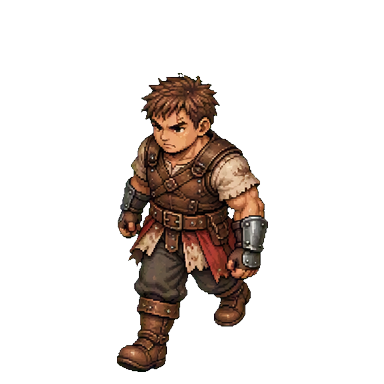
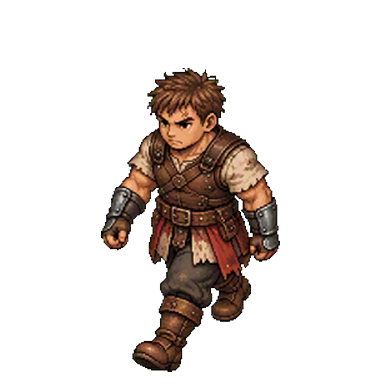
v97.89 Bram เดิน SW 12 เฟรม (จำนวนเฟรมเดินแยกตามทิศ)
Claude-Session: https://claude.ai/code/session_019t7yat9ZpwB9vYQUzd7rSJ

Changed region(s): [[0.25, 0.1562, 0.75, 0.9688]]

diff --git a/village-town.html b/village-town.html
@@ -439,7 +439,7 @@ document.querySelectorAll('[data-game]').forEach(b=>b.onclick=()=>sendGame('menu
 
 document.addEventListener('pointerdown',()=>sendGame('input'),{capture:true});document.addEventListener('keydown',()=>sendGame('input'),{capture:true});
 rebuildRoads();heroRestore();renderList();fit();new ResizeObserver(fit).observe(stage);parent.postMessage({source:'project-a-town',type:'ready'},'*');document.fonts.ready.then(()=>terrainDirty=true);requestAnimationFrame(draw);const roadEdgeButton=$('roadEdgeStyle');if(roadEdgeButton){roadEdgeButton.onclick=()=>setRoadEdgeStyle(ROAD_EDGE_STYLE==='classic'?'texture':'classic');roadEdgeButton.textContent='ขอบถนน: '+(ROAD_EDGE_STYLE==='texture'?'ลายหินใหม่':'แบบเดิม');}
-</script><script src="js/village-layout-v67.js?v=82.14"></script><script src="js/village-grid.js?v=3"></script><script src="js/village-footprint.js?v=91.70"></script><script src="js/village-fence.js?v=1"></script><script src="js/town-ux.js?v=97.46"></script><script src="js/town-menu.js?v=72"></script><script src="js/village-biomes.js?v=72"></script><script src="js/village-forest.js?v=97.47"></script><script src="js/nature-alpha-masks.js"></script><script src="js/elements.js?v=97.50"></script><script src="js/world-state.js?v=97.76"></script><script src="js/villager-draw.js?v=97.86"></script><script src="js/village-life.js?v=97.76"></script><script src="js/village-lines.js?v=97.50"></script><script src="js/village-mind.js?v=97.34"></script><script src="js/town-npcs.js?v=97.40"></script><script src="js/town-quest.js?v=97.14"></script><script src="js/game-mood.js?v=74"></script><script src="js/hd2d.js?v=74"></script><script src="js/town-mood.js?v=91.74"></script><script src="js/village-frontage.js?v=83"></script><script src="js/proc-motion.js?v=81.8"></script><script src="js/github-push.js?v=97.03"></script><script src="js/village-asset-edit.js?v=97.47"></script><script>if(EDIT_PAGE&&window.TownPaint)GroundPaint.ui(TownPaint,{bar:()=>document.getElementById('townTools'),canvas:cv,toWorld:e=>world(e),before:()=>{TownUX.checkpoint();TownPaint.setClip?.(paintClip())},after:()=>TownUX.persist(),ensureEdit:()=>{if(!editing)$('edit').click()},onOpen:()=>{if(window.VillageAssetEdit?.placeId())VillageAssetEdit.leave();TownUX.setMode('object')}});</script><script src="js/editor-tools.js?v=91.77"></script><script src="js/asset-request.js?v=3"></script><script src="js/editor-auto.js?v=91.96"></script><script src="js/editor-layout.js?v=91.77"></script><script src="js/exit-edit.js?v=1"></script><script src="js/town-battle.js?v=97.78"></script><script src="js/console-ui.js?v=97.85"></script></html>
+</script><script src="js/village-layout-v67.js?v=82.14"></script><script src="js/village-grid.js?v=3"></script><script src="js/village-footprint.js?v=91.70"></script><script src="js/village-fence.js?v=1"></script><script src="js/town-ux.js?v=97.46"></script><script src="js/town-menu.js?v=72"></script><script src="js/village-biomes.js?v=72"></script><script src="js/village-forest.js?v=97.47"></script><script src="js/nature-alpha-masks.js"></script><script src="js/elements.js?v=97.50"></script><script src="js/world-state.js?v=97.76"></script><script src="js/villager-draw.js?v=97.89"></script><script src="js/village-life.js?v=97.76"></script><script src="js/village-lines.js?v=97.50"></script><script src="js/village-mind.js?v=97.34"></script><script src="js/town-npcs.js?v=97.40"></script><script src="js/town-quest.js?v=97.14"></script><script src="js/game-mood.js?v=74"></script><script src="js/hd2d.js?v=74"></script><script src="js/town-mood.js?v=91.74"></script><script src="js/village-frontage.js?v=83"></script><script src="js/proc-motion.js?v=81.8"></script><script src="js/github-push.js?v=97.03"></script><script src="js/village-asset-edit.js?v=97.47"></script><script>if(EDIT_PAGE&&window.TownPaint)GroundPaint.ui(TownPaint,{bar:()=>document.getElementById('townTools'),canvas:cv,toWorld:e=>world(e),before:()=>{TownUX.checkpoint();TownPaint.setClip?.(paintClip())},after:()=>TownUX.persist(),ensureEdit:()=>{if(!editing)$('edit').click()},onOpen:()=>{if(window.VillageAssetEdit?.placeId())VillageAssetEdit.leave();TownUX.setMode('object')}});</script><script src="js/editor-tools.js?v=91.77"></script><script src="js/asset-request.js?v=3"></script><script src="js/editor-auto.js?v=91.96"></script><script src="js/editor-layout.js?v=91.77"></script><script src="js/exit-edit.js?v=1"></script><script src="js/town-battle.js?v=97.78"></script><script src="js/console-ui.js?v=97.85"></script></html>
 
 
 <!-- Art sources and prompts: docs/ASSET_NOTES.txt. PNG objects are used for all buildings and props; roads and floor are native editable geometry. -->

diff --git a/js/villager-draw.js b/js/villager-draw.js
@@ -25,12 +25,12 @@
   }
   /* v97.37 · picture-based people. look.sprite = 'bram' → assets/village-town/npc/bram/<se|sw|ne|nw>-<stand|walk1..walk4>.webp
      (384×384, feet at y=372). v97.59: a direction without its own pictures uses the opposite one mirrored (SE←SW, NW←NE and back), so two directions are enough ·
-     walk frames: 12 = a full 12-picture cycle (only the directions in wd have them; the others use them mirrored) · 4 = left contact, passing, right contact, passing · 2 = contact A, stand, contact B, stand · 1 = contact, stand, contact, stand · 0 = the standing picture with a bob.
+     walk frames: 12 = a full 12-picture cycle (per-direction counts in wn; a direction with fewer pictures than its mirror uses the mirror's, flipped) · 4 = left contact, passing, right contact, passing · 2 = contact A, stand, contact B, stand · 1 = contact, stand, contact, stand · 0 = the standing picture with a bob.
      Falls back to the code-drawn figure until a standing picture has loaded. */
-  const SPR_INFO = { bram: { dirs: ['se', 'sw', 'ne', 'nw'], walk: 2 }, luna: { dirs: ['se', 'sw', 'ne', 'nw'], walk: 1 }, kier: { dirs: ['se', 'sw', 'ne', 'nw'], walk: 12, wd: ['sw', 'ne'] } }, SPR = {}, MIR = { se: 'sw', sw: 'se', ne: 'nw', nw: 'ne' };
+  const SPR_INFO = { bram: { dirs: ['se', 'sw', 'ne', 'nw'], walk: 2, wn: { sw: 12 } }, luna: { dirs: ['se', 'sw', 'ne', 'nw'], walk: 1 }, kier: { dirs: ['se', 'sw', 'ne', 'nw'], walk: 0, wn: { sw: 12, ne: 12 } } }, dn = (info, d) => (info.wn && info.wn[d] != null ? info.wn[d] : info.walk), SPR = {}, MIR = { se: 'sw', sw: 'se', ne: 'nw', nw: 'ne' };
   function sprites(name) {
     let S = SPR[name]; if (S) return S; S = SPR[name] = {}; const info = SPR_INFO[name]; if (!info || typeof Image === 'undefined') return S;
-    for (const d of info.dirs) for (const k of ['stand', ...(info.wd && !info.wd.includes(d) ? [] : Array.from({ length: info.walk }, (_, n) => 'walk' + (n + 1)))]) { const im = new Image(); im.src = 'assets/village-town/npc/' + name + '/' + d + '-' + k + '.webp'; S[d + '-' + k] = im }
+    for (const d of info.dirs) for (const k of ['stand', ...Array.from({ length: dn(info, d) }, (_, n) => 'walk' + (n + 1))]) { const im = new Image(); im.src = 'assets/village-town/npc/' + name + '/' + d + '-' + k + '.webp'; S[d + '-' + k] = im }
     return S;
   }
   const ready = im => im && im.complete && im.naturalWidth > 0;
@@ -39,7 +39,8 @@
     const S = sprites(L.sprite), info = SPR_INFO[L.sprite], d = (o.face || 'SE').toLowerCase(), ph = o.phase || 0, act = o.act || '', walking = !!o.walking;
     let P = pic(S, d, 'stand'), full = false; if (!P) return false;
     const s = (o.scale || 1) * (L.small ? .72 : 1) * (L.spriteScale || 1), k = s * 84 / 330;
-    if (walking && act === '' && info.walk) { const p = t * .012 + ph, N = info.walk >= 4 ? info.walk : 4, f = ((Math.round(p / (Math.PI * 2 / N)) % N) + N) % N, key = info.walk >= 4 ? 'walk' + (f + 1) : info.walk === 1 ? (f % 2 === 0 ? 'walk1' : 'stand') : f === 0 ? 'walk1' : f === 2 ? 'walk2' : 'stand', W = pic(S, d, key); if (W) { P = W; full = info.walk >= 8 } }
+    let wn = dn(info, d), wsrc = d, wflip = false; if (dn(info, MIR[d]) > wn) { wn = dn(info, MIR[d]); wsrc = MIR[d]; wflip = true }
+    if (walking && act === '' && wn) { const p = t * .012 + ph, N = wn >= 4 ? wn : 4, f = ((Math.round(p / (Math.PI * 2 / N)) % N) + N) % N, key = wn >= 4 ? 'walk' + (f + 1) : wn === 1 ? (f % 2 === 0 ? 'walk1' : 'stand') : f === 0 ? 'walk1' : f === 2 ? 'walk2' : 'stand', W = pic(S, wsrc, key); if (W) { P = wflip ? { im: W.im, flip: !W.flip } : W; full = wn >= 8 } }
     const bob = walking ? Math.abs(Math.sin(t * .012 + ph)) * (full ? .6 : 4) * s : act === 'play' ? Math.abs(Math.sin(t * .008 + ph)) * 2 * s : Math.sin(t * .002 + ph) * .8;
     g.save(); g.fillStyle = 'rgba(20,20,20,.32)'; g.beginPath(); g.ellipse(x, y, 15 * s, 6 * s, 0, 0, 7); g.fill(); g.restore();
     g.save(); g.translate(x, y - bob + (act === 'sit' ? 8 * s : 0)); if (P.flip) g.scale(-1, 1); g.drawImage(P.im, -192 * k, -372 * k, 384 * k, 384 * k); g.restore();

diff --git a/battle-field.html b/battle-field.html
@@ -7,7 +7,7 @@
 </style></head><body>
 <canvas id="world" aria-label="สนามรบ"></canvas>
 <script>window.FIELD_K=Math.min(2.5,Math.max(.6,+new URLSearchParams(location.search).get('k')||1.5))</script><script src="js/touch.js?v=94.02"></script><script src="js/asset-manifest.js?v=97.69"></script><script src="js/tactics-sprites.js?v=97.47"></script>
-<script src="js/hero-motion.js"></script><script src="js/world-state.js?v=97.76"></script><script src="js/villager-draw.js?v=97.86"></script><script src="js/village-life.js?v=97.76"></script>
+<script src="js/hero-motion.js"></script><script src="js/world-state.js?v=97.76"></script><script src="js/villager-draw.js?v=97.89"></script><script src="js/village-life.js?v=97.76"></script>
 <script src="js/terrain-height.js?v=96.00"></script><script src="js/terrain-height-art.js?v=96.00"></script><script src="js/field-diorama.js?v=97.01"></script><script src="js/field-host.js?v=97.15"></script>
 <script src="js/town-battle.js?v=97.78"></script>
 <script src="js/console-ui.js?v=97.85"></script></body></html>

diff --git a/village-place.html b/village-place.html
@@ -1398,4 +1398,4 @@ setup();
 resize();
 send('ready');
 requestAnimationFrame(draw);
-</script><script src="js/place-build.js?v=87"></script><script src="js/world-state.js?v=97.76"></script><script src="js/villager-draw.js?v=97.86"></script><script src="js/village-life.js?v=97.76"></script><script src="js/village-lines.js?v=97.50"></script><script src="js/village-mind.js?v=97.34"></script><script src="js/place-people.js?v=97.69"></script><script src="js/editor-tools.js?v=91.77"></script></html>
+</script><script src="js/place-build.js?v=87"></script><script src="js/world-state.js?v=97.76"></script><script src="js/villager-draw.js?v=97.89"></script><script src="js/village-life.js?v=97.76"></script><script src="js/village-lines.js?v=97.50"></script><script src="js/village-mind.js?v=97.34"></script><script src="js/place-people.js?v=97.69"></script><script src="js/editor-tools.js?v=91.77"></script></html>

diff --git a/js/game-version.js b/js/game-version.js
@@ -2,6 +2,6 @@
    Major release: increment the main number (v80 → v81).
    Small patch (⬆ Push from an editor): increment the suffix counter (v81.13 → v81.14; treat it as a sequence, not a decimal).
    The commit message starts with the same version. Editor pushes bump the suffix automatically. */
-window.GAME_VERSION={v:'v97.88',date:'2026-10-30',repo:'ekkavish31/Project-Agrenor-Tactical-Card-Game'};
+window.GAME_VERSION={v:'v97.89',date:'2026-10-30',repo:'ekkavish31/Project-Agrenor-Tactical-Card-Game'};
 /* v91.94 · asset cache (sw.js): reloads reuse the ~60 MB of map images; a new version fetches them once; Ctrl+F5 refreshes the stored copies */
 try{if('serviceWorker' in navigator&&/^https?:$/.test(location.protocol))navigator.serviceWorker.register('sw.js?v='+encodeURIComponent(window.GAME_VERSION.v)).catch(()=>{})}catch(e){}

diff --git a/place-interior.html b/place-interior.html
@@ -7,7 +7,7 @@
 button{font:inherit;cursor:pointer}
 </style></head><body>
 <canvas id="room" aria-label="ภายในสถานที่"></canvas>
-<script src="js/world-state.js?v=97.76"></script><script src="js/touch.js?v=94.02"></script><script src="js/villager-draw.js?v=97.86"></script>
+<script src="js/world-state.js?v=97.76"></script><script src="js/touch.js?v=94.02"></script><script src="js/villager-draw.js?v=97.89"></script>
 <script src="js/village-life.js?v=97.76"></script>
 <script src="js/village-lines.js?v=97.50"></script>
 <script src="js/village-mind.js?v=97.34"></script>

diff --git a/docs/CHANGELOG-TH.md b/docs/CHANGELOG-TH.md
@@ -2494,6 +2494,10 @@ v35b: เปลี่ยนการหมุนสนามจาก crossfade 
 - ปรับได้ด้วย `?k=` (1 = ขนาดเดิม · ค่าเริ่มต้น 1.5) · ค่าอยู่ใน `window.FIELD_K` ใช้ร่วมกันโดย `field-host.js` และ `field-diorama.js`
 - หมายเหตุ: ตอนเข้าสนามกล้องเลื่อนเข้าที่นานขึ้นเล็กน้อย ถ้าคลิกเร็วเกินไปอาจพลาดช่อง
 
+## v97.89 · Bram เดิน SW 12 เฟรม (31 ต.ค. 2026)
+- ชีตเดิน 12 ภาพ → `assets/village-town/npc/bram/sw-walk1..12.webp` (สเกล ×1.27 ใกล้เคียงชุดเดินเดิม หัวตรงภาพยืน) · SE กลับด้านจาก SW
+- `villager-draw.js`: จำนวนเฟรมเดินแยกตามทิศ (`wn`) ทิศที่เฟรมน้อยกว่าทิศตรงข้ามจะใช้ภาพตรงข้ามกลับด้าน · NE/NW ของ Bram ยังใช้ชุด 2 เฟรมเดิมจนกว่าจะได้ชีต NE
+
 ## v97.86b (บน main) · เคียร์เดิน NE 12 เฟรม — เดินครบทุกทิศ (31 ต.ค. 2026)
 - ชีตเดินทิศ NE ครบรอบ 12 ภาพ → `assets/village-town/npc/kier/ne-walk1..12.webp` (สเกล ×1.31 หัวตรงกับภาพยืน) · `wd:['sw','ne']` NW กลับด้านจาก NE, SE กลับด้านจาก SW
 
